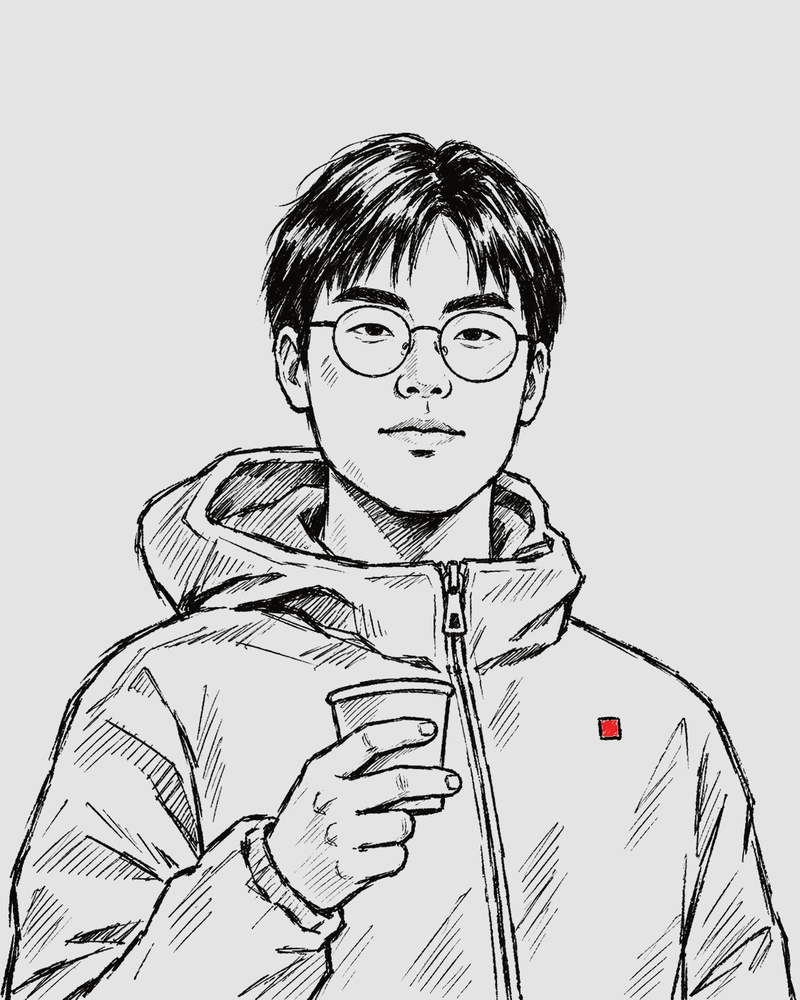
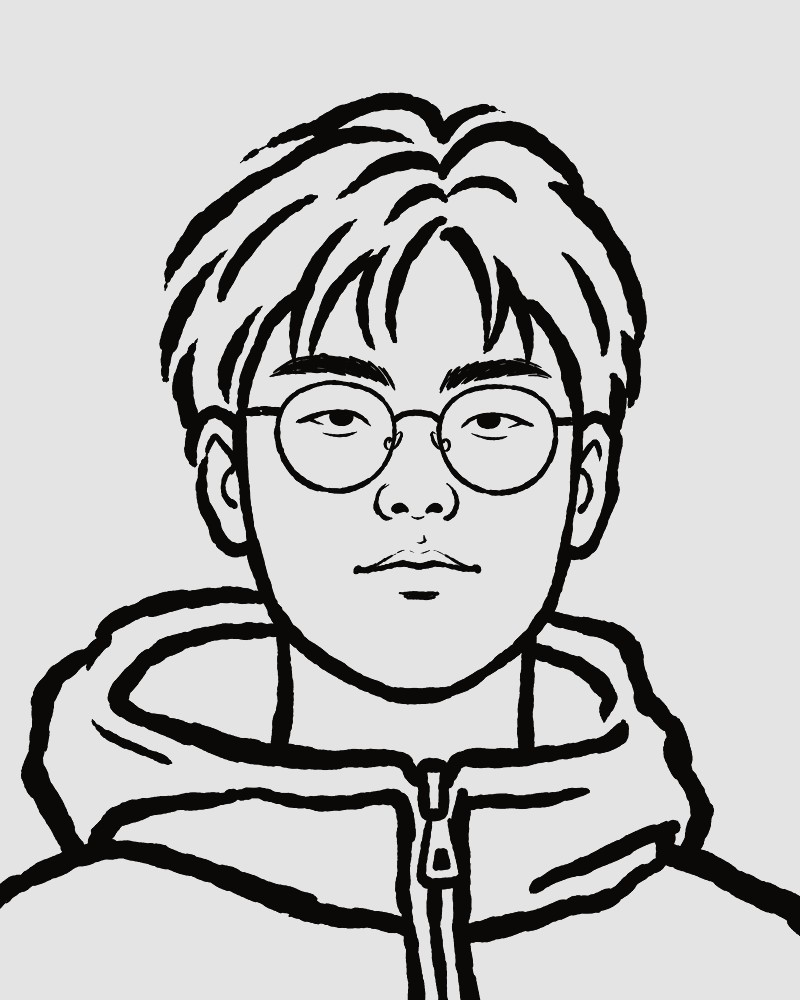
feat(members): portraits as pen-and-ink line drawings
Why: the portraits were shaded pencil renderings, so the Members wall did not read as the same notebook as the blog covers and the History collage.

How: the six portraits redrawn by Codex's image tool as line drawings in the covers' hand (line only, a few hatch lines in hair and folds, no red, one head size and eye level), under the same file names, and shown through the hand layer's roughening filter like the covers and the placeholder. The placeholder tiles are unchanged.

Changed region(s): [[0.0, 0.093, 1.0, 1.0]]

diff --git a/src/features/members/components/MemberCrew.tsx b/src/features/members/components/MemberCrew.tsx
@@ -44,7 +44,7 @@ function Portrait({ m, sizes, className = "" }: { m: CrewMember; sizes: string; 
       {m.portrait ? (
         // Loaded with the page, not lazily: in Safari a lazily loaded portrait could vanish after a
         // reload, while the page's arrival fade was running on an ancestor.
-        <Image src={m.portrait} alt={m.name} fill sizes={sizes} loading="eager" className="rounded-none object-cover" />
+        <Image src={m.portrait} alt={m.name} fill sizes={sizes} loading="eager" style={INKED} className="rounded-none object-cover" />
       ) : (
         <Image src={PLACEHOLDER} alt="" fill unoptimized loading="lazy" style={INKED} className="rounded-none object-contain" />
       )}
